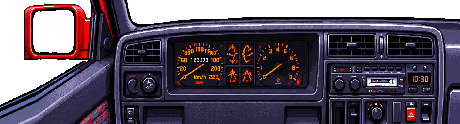
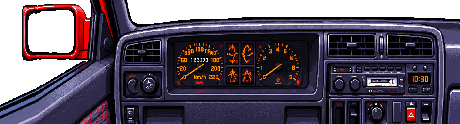
Monza S/R vira Ímola S/R; retrovisor esquerdo refeito: lado de lá fino, cantos arredondados, contorno contínuo e sem restos da paisagem (v0.27.1)
Claude-Session: https://claude.ai/code/session_01MLD9VR7gkmY4w6a9beZcp6

Changed region(s): [[0.0304, 0.0242, 0.0913, 0.5081]]

diff --git a/src/carsbr.ts b/src/carsbr.ts
@@ -49,8 +49,8 @@ export const BR_CARS: CarSpec[] = [
   { ...fwd(spec({ id: 'br-kadett', name: 'Cadete GSi', basedOn: 'Chevrolet Kadett GSi 2.0 (1989)', color: '#f0c000', price: 17000, position: 'dianteira', engine: '4 cil. 8v', cc: 1998, cv: 121, kmh: 190, z100: 9.6, kg: 1030, curve: 'torque', lat: 0.85, brake: 0.9, handling: 0.97 })), dash: 'br-kadett', rear: { h: 0.75, roof: 0.62, lights: 'rect', wing: 1, glow: { dots: [[0.11, 0.4], [0.89, 0.4]] } } },
   fwd(spec({ id: 'br-xr3', name: 'Escoltar XR3', basedOn: 'Ford Escort XR3 2.0i (1993)', color: '#1a3aa8', price: 16500, position: 'dianteira', engine: '4 cil. 8v', cc: 1984, cv: 115, kmh: 185, z100: 9.8, kg: 1050, curve: 'torque', lat: 0.85, brake: 0.9, handling: 0.97 })),
   { ...fwd(spec({ id: 'br-corsa', name: 'Corsário GSi', basedOn: 'Chevrolet Corsa GSi 1.6 16v (1995)', color: '#ececec', price: 14000, position: 'dianteira', engine: '4 cil. 16v', cc: 1598, cv: 108, kmh: 190, z100: 9.5, kg: 950, curve: 'vtec', lat: 0.85, brake: 0.92, handling: 1.03 })), dash: 'br-corsa', rear: { h: 0.88, roof: 0.6, lights: 'rect', wing: 1, glow: { dots: [[0.105, 0.47], [0.895, 0.47]] } } },
-  // Monção S/R (Monza S/R hatch 1987, 2.0 a álcool): arte completa do Victor (monza_sprites.py, monza_cockpit.py, monza_gauges.py)
-  { ...fwd(spec({ id: 'br-monza', name: 'Monção S/R', basedOn: 'Chevrolet Monza S/R 2.0 (1987)', color: '#c8141a', price: 13000, position: 'dianteira', engine: '4 cil. 8v', cc: 1998, cv: 110, kmh: 180, z100: 10.5, kg: 1060, curve: 'torque', lat: 0.8, brake: 0.86, handling: 0.9 })), dash: 'br-monza', rear: { h: 0.7, roof: 0.6, lights: 'rect', wing: 1, glow: { dots: [[0.076, 0.624], [0.226, 0.624], [0.774, 0.624], [0.924, 0.624]] } } },
+  // Ímola S/R (Monza S/R hatch 1987, 2.0 a álcool): arte completa do Victor (monza_sprites.py, monza_cockpit.py, monza_gauges.py)
+  { ...fwd(spec({ id: 'br-monza', name: 'Ímola S/R', basedOn: 'Chevrolet Monza S/R 2.0 (1987)', color: '#c8141a', price: 13000, position: 'dianteira', engine: '4 cil. 8v', cc: 1998, cv: 110, kmh: 180, z100: 10.5, kg: 1060, curve: 'torque', lat: 0.8, brake: 0.86, handling: 0.9 })), dash: 'br-monza', rear: { h: 0.7, roof: 0.6, lights: 'rect', wing: 1, glow: { dots: [[0.076, 0.624], [0.226, 0.624], [0.774, 0.624], [0.924, 0.624]] } } },
   spec({ id: 'br-opala', name: 'Opalino SS', basedOn: 'Chevrolet Opala SS 4.1 (1976)', color: '#1c1c20', price: 15000, position: 'dianteira', engine: '6 cil. 12v', cc: 4093, cv: 148, kmh: 180, z100: 10.5, kg: 1180, gears: G4, curve: 'torque', lat: 0.74, brake: 0.8, handling: 0.82 }),
   { ...spec({ id: 'br-pumagtb', name: 'Onça GTB', basedOn: 'Puma GTB S2 4.1 (1979)', color: '#c8ccd0', price: 19000, position: 'dianteira', engine: '6 cil. 12v', cc: 4093, cv: 140, kmh: 180, z100: 10.0, kg: 1150, gears: G4, curve: 'torque', lat: 0.78, brake: 0.82, handling: 0.86 }), dash: 'br-pumagtb', rear: { h: 0.62, roof: 0.62, lights: 'rect', wing: 0, glow: { dots: [[0.18, 0.6], [0.3, 0.6], [0.7, 0.6], [0.82, 0.6]] } } },
   { ...fwd(spec({ id: 'br-passat', name: 'Passeio GTS', basedOn: 'VW Passat GTS Pointer 1.8 (1985)', color: '#c8c8cc', price: 11000, position: 'dianteira', engine: '4 cil. 8v', cc: 1781, cv: 99, kmh: 175, z100: 10.8, kg: 940, gears: G4, curve: 'torque', lat: 0.82, brake: 0.86, handling: 0.95 })), dash: 'br-passat', rear: { h: 0.717, roof: 0.62, lights: 'rect', wing: 1, glow: { dots: [[0.07, 0.52], [0.2, 0.52], [0.8, 0.52], [0.93, 0.52]] } } },

diff --git a/src/photos.ts b/src/photos.ts
@@ -67,12 +67,12 @@ export const GOL_PHOTOS: Photo[] = [
   { src: ph('gol-giro'), kicker: 'TÉCNICA', kc: '#1a1614', title: 'ATÉ O CORTE', sub: 'Conta-giros VDO e motor AP', inside: ['Leia o painel do GTI', 'Faixa vermelha em 6.250', 'Relógio digital no meio'], box: [150, 100, 410, 315] },
   { src: ph('gol-motor'), kicker: 'OFICINA', kc: '#1a6a2a', title: 'INJEÇÃO ELETRÔNICA', sub: 'O primeiro nacional injetado', inside: ['Revisão da injeção', 'Velas e cabos', 'Filtro de ar esportivo'], box: [60, 40, 540, 315] },
 ].filter((p) => !!p.src);
-// Monção S/R (Monza S/R 1987): tools/ref/monza_photos.py
+// Ímola S/R (Monza S/R 1987): tools/ref/monza_photos.py
 export const MZ_PHOTOS: Photo[] = [
-  { src: ph('mz-aviao'), kicker: 'TESTE', kc: '#d01f26', title: 'MONÇÃO S/R', sub: 'O hatch esportivo decola na pista', inside: ['2.0 a álcool de 110 cv', 'Contra o treinador da base', 'Câmbio curto de 5 marchas'], box: [104, 100, 506, 302] },
+  { src: ph('mz-aviao'), kicker: 'TESTE', kc: '#d01f26', title: 'ÍMOLA S/R', sub: 'O hatch esportivo decola na pista', inside: ['2.0 a álcool de 110 cv', 'Contra o treinador da base', 'Câmbio curto de 5 marchas'], box: [104, 100, 506, 302] },
   { src: ph('mz-preto'), kicker: 'ENSAIO', kc: '#1a1614', title: 'HATCH DE RESPEITO', sub: 'Aerofólio, filetes vermelhos e escape esportivo', inside: ['Rodas de liga de série', 'Bancos de tecido exclusivo', 'Porta-malas com tampão'], box: [65, 85, 517, 300] },
-  { src: ph('mz-casal'), kicker: 'COMPARATIVO', kc: '#1e4fb8', title: 'DOIS MONÇÕES', sub: 'Prata ou cobre: qual levar para casa?', inside: ['Consumo na estrada', 'Econômetro no painel', 'O preço de cada versão'], box: [189, 105, 553, 286] },
-  { src: ph('mz-garagem'), kicker: 'FAMÍLIA', kc: '#1a6a2a', title: 'SEDÃ OU HATCH?', sub: 'A linha Monção inteira na garagem', inside: ['Sedã de quatro portas', 'Hatch para quem dirige', 'Câmbio automático: vale?'], box: [15, 57, 533, 290] },
+  { src: ph('mz-casal'), kicker: 'COMPARATIVO', kc: '#1e4fb8', title: 'DOIS ÍMOLAS', sub: 'Prata ou cobre: qual levar para casa?', inside: ['Consumo na estrada', 'Econômetro no painel', 'O preço de cada versão'], box: [189, 105, 553, 286] },
+  { src: ph('mz-garagem'), kicker: 'FAMÍLIA', kc: '#1a6a2a', title: 'SEDÃ OU HATCH?', sub: 'A linha Ímola inteira na garagem', inside: ['Sedã de quatro portas', 'Hatch para quem dirige', 'Câmbio automático: vale?'], box: [15, 57, 533, 290] },
   { src: ph('mz-motor'), kicker: 'TÉCNICA', kc: '#1e4fb8', title: 'ÁLCOOL 2.0', sub: 'Comando no cabeçote e torque em baixa', inside: ['Partida a frio sem susto', 'Regulagem do carburador', 'Velas e ponto certos'], box: [40, 20, 520, 300] },
 ].filter((p) => !!p.src);
 export const preloadPhotos = () => [...LP5_PHOTOS, ...NX_PHOTOS, ...VP_PHOTOS, ...TR_PHOTOS, ...F4_PHOTOS, ...DIA_PHOTOS, ...GOL_PHOTOS, ...MZ_PHOTOS].forEach((p) => img(p.src));

diff --git a/src/cockpit.ts b/src/cockpit.ts
@@ -267,7 +267,7 @@ COCKPIT_ART['br-golgti'] = {
   },
 };
 
-// Monção S/R (Monza S/R hatch 1987): interior do Victor (tools/ref/monza_cockpit.py: painel da arte sem
+// Ímola S/R (Monza S/R hatch 1987): interior do Victor (tools/ref/monza_cockpit.py: painel da arte sem
 // volante, volante da arte com volante, retrovisor completado, porta construída até a borda) e o quadro
 // da foto do carro real (tools/ref/monza_gauges.py): grafite com números laranja finos, velocímetro
 // 20-220 com hodômetro e parcial, conta-giros 10-70 com faixa vermelha vazada e, no meio, quatro

diff --git a/src/screens.ts b/src/screens.ts
@@ -145,7 +145,7 @@ function newsLines(slot: number): string[] {
     'Onça GTE: fibra, boxer a ar e charme',
     'Cadete GSi e o painel que é só números',
     'Gaúcho GTI encara a serra de faróis acesos',
-    'Monção S/R: o econômetro ensina a poupar álcool',
+    'Ímola S/R: o econômetro ensina a poupar álcool',
     'Vortex ZR: quadro digital dos anos 80',
     'Onça GTB: seis cilindros e muito torque',
   ];

diff --git a/tools/ref/monza_cockpit.py b/tools/ref/monza_cockpit.py
@@ -1,4 +1,4 @@
-"""Cabine do Monção S/R (Monza S/R 1987) a partir das artes do Victor (mesmo enquadramento nas duas):
+"""Cabine do Ímola S/R (Monza S/R 1987) a partir das artes do Victor (mesmo enquadramento nas duas):
 - painel da arte sem volante; o volante vem da arte com volante (aro pela geometria, miolo e os quatro
   raios por contorno)
 - vidros por geometria medida na arte: para-brisa (da borda de dentro da coluna até a linha do alto do
@@ -40,7 +40,7 @@ P_OUT = [(0, 118), (30, 130), (60, 143), (90, 154), (120, 165), (150, 178), (180
 P_IN = [(0, 309), (30, 303), (60, 306), (90, 313), (120, 318), (150, 325), (180, 330), (210, 337), (240, 344), (262, 352)]
 LP, TP = 150, 60                # folga construída à esquerda e no alto (px da arte)
 SILL = 0.40                     # quanto as linhas da porta descem a cada px indo para a borda esquerda
-M_A, M_R, M_X0 = 112, 170, -45  # retrovisor: faixa refletida (do começo da curva dos cantos até a borda) e a borda nova
+M_A, M_R, M_X0 = 112, 153, -50  # retrovisor: faixa refletida (da curva dos cantos até o filete da moldura, sem a lateral grossa da carcaça) e a borda nova
 
 
 def interp(tab, y):
@@ -118,6 +118,10 @@ def opaque(nw):
     glass = lab == lab[300, 70]
     glass = cv2.morphologyEx(glass.astype(np.uint8), cv2.MORPH_CLOSE, np.ones((7, 7), np.uint8)) > 0
     al &= ~(win & ~body)
+    al &= ~(box & (yy < 214) & (nw[..., 0] > 180) & (nw[..., 1] > 80) & (nw[..., 2] < 100))  # tufo alaranjado da paisagem em cima da moldura
+    for _ in range(2):  # pontinhos soltos da paisagem grudados no alto da moldura
+        cnt = cv2.filter2D(al.astype(np.uint8), -1, np.ones((3, 3), np.float32), borderType=cv2.BORDER_REPLICATE)
+        al &= ~((cnt < 5) & box & (yy < 222))
     al &= ~glass
     return al, body, glass
 
@@ -137,28 +141,50 @@ def extend(nw, al, body):
         ybc = np.clip(yb, 0, H - 1)
         E[TP:, LP - X] = base[ybc].astype(np.uint8)
         A[TP:, LP - X] = ok & edge_ok[ybc]
-    # retrovisor: moldura direita refletida (cor e vidro)
+    # retrovisor: o lado de lá (esquerdo) é refeito fino, como se vê de dentro: a curva dos cantos e o
+    # filete da moldura direita refletidos (sem a lateral grossa da carcaça, que só aparece do lado
+    # de cá); entre eles e a borda da arte, a moldura de cima, o vidro e a de baixo continuam. O
+    # retrovisor está em perspectiva (o alto desce para a esquerda): cada coluna nova é encolhida na
+    # vertical, presa embaixo, seguindo essa inclinação
     rows = slice(TP + 198, TP + 396)
-    # o retrovisor está em perspectiva (mais alto à direita): a faixa refletida é encolhida na
-    # vertical, presa embaixo, para o alto dela casar com o alto da moldura na borda da arte
+    bot = 392
     first = lambda x: 198 + int(np.argmax(al[198:260, x]))
-    t_src, t_dst, bot = first(M_A), first(M_X0 + (M_R - M_A) + 1), 392
+    slope = (first(4) - first(M_A)) / (M_A - 4.0)   # quanto o alto desce por px indo para a esquerda
     yd = np.arange(198, 396)
-    ysrc = np.round(bot - (bot - yd) * (bot - t_src) / (bot - t_dst)).astype(int)
-    okr = ysrc >= 198
-    ysrc = np.clip(ysrc, 198, 395)
+
+    def put(tx, sx):
+        t_src, t_dst = first(sx), first(4) + slope * (4 - tx)
+        ysrc = np.round(bot - (bot - yd) * (bot - t_src) / (bot - t_dst)).astype(int)
+        ok = ysrc >= 198
+        ysrc = np.clip(ysrc, 198, 395)
+        E[rows, LP + tx] = nw[ysrc, sx]
+        A[rows, LP + tx] = al[ysrc, sx] & ok
+
+    w = M_R - M_A
     for x in range(M_A, M_R + 1):
-        tx = LP + M_X0 + (M_R - x)
-        E[rows, tx] = nw[ysrc, x]
-        A[rows, tx] = al[ysrc, x] & okr
-    edge = A[rows, LP + M_X0]
-    for k in (1, 2, 3):
-        col = E[rows, LP + M_X0 - k]
-        col[edge] = (14, 12, 14)
-        E[rows, LP + M_X0 - k] = col
-        ca = A[rows, LP + M_X0 - k]
-        ca[edge] = True
-        A[rows, LP + M_X0 - k] = ca
+        put(M_X0 + (M_R - x), x)
+    n = 4 - (M_X0 + w + 1)
+    for i, tx in enumerate(range(M_X0 + w + 1, 4)):  # a moldura engrossa aos poucos até a curva do canto
+        put(tx, int(round(M_A - 1 - (M_A - 5) * i / max(1, n - 1))))
+    # cantos de fora arredondados e contorno escuro em volta do lado novo
+    x0, x1 = LP + M_X0, LP + 4
+    reg = A[TP + 190:TP + 400, x0 - 6:x1].copy()
+    pad = np.pad(reg, 1, constant_values=False)
+    nlab, lab = cv2.connectedComponents((~pad).astype(np.uint8), connectivity=4)
+    solid = (lab != lab[0, 0])[1:-1, 1:-1] | reg  # com o vidro tampado
+    ys_, xs_ = np.nonzero(solid[:, 6:8])
+    ytop, ybot, R = ys_.min(), ys_.max(), 11
+    yy, xx = np.mgrid[0:solid.shape[0], 0:solid.shape[1]]
+    for cy in (ytop + R, ybot - R):
+        out_c = (xx < 6 + R) & ((yy < cy) if cy == ytop + R else (yy > cy)) & (np.hypot(xx - (6 + R), yy - cy) > R)
+        solid &= ~out_c
+        reg &= ~out_c
+    line = (cv2.dilate(solid.astype(np.uint8), np.ones((7, 7), np.uint8)) > 0) & ~solid
+    line[:, -3:] = False
+    A[TP + 190:TP + 400, x0 - 6:x1] = reg | line
+    blk = E[TP + 190:TP + 400, x0 - 6:x1]
+    blk[line] = (14, 12, 14)
+    E[TP + 190:TP + 400, x0 - 6:x1] = blk
     # alto: a coluna continua subindo (0,3 px para a esquerda por px)
     for Y in range(1, TP + 1):
         sh = int(round(0.3 * Y))

diff --git a/tools/ref/monza_sprites.py b/tools/ref/monza_sprites.py
@@ -1,4 +1,4 @@
-"""Sprites do Monção S/R (Monza S/R hatch 1987, pixel art do Victor). A arte vem com cenário: o carro
+"""Sprites do Ímola S/R (Monza S/R hatch 1987, pixel art do Victor). A arte vem com cenário: o carro
 é recortado por inundação do fundo a partir das bordas (o contorno preto do carro segura), fica só a
 maior mancha e a sombra azulada do chão sai. A lateral vem com a frente para a direita: é espelhada.
 Marcas reais somem: gravata na grade e nas rodas, "CHEVROLET" na tampa e a placa "MONZA" da frente;

diff --git a/tools/ref/monza_gauges.py b/tools/ref/monza_gauges.py
@@ -1,4 +1,4 @@
-"""Quadro do Monção S/R (Monza S/R 1987), copiando a foto do quadro real que o Victor mandou: fundo
+"""Quadro do Ímola S/R (Monza S/R 1987), copiando a foto do quadro real que o Victor mandou: fundo
 grafite, números e marcações laranja em grotesca fina. Velocímetro 20-220 km/h (número a cada 20,
 marcação a cada 10, 120 no alto) com hodômetro em cima do eixo, parcial embaixo e "km/h"; conta-giros
 10-70 (x100 min-1) com a faixa vermelha vazada no fim; no meio, quatro mostradores de arco em pé com

diff --git a/tools/ref/monza_photos.py b/tools/ref/monza_photos.py
@@ -1,4 +1,4 @@
-"""Fotos da revista do Monção S/R (Monza S/R, pixel art do Victor): as gravatas das grades viram o logo
+"""Fotos da revista do Ímola S/R (Monza S/R, pixel art do Victor): as gravatas das grades viram o logo
 da Vanguarda (src/assets/brands.json), os letreiros "CHEVROLET"/"MONZA" somem (cor da lataria em
 volta), a placa "MONZA" vira "S/R 87" e a marca da bateria some. Reduz para 560 x 315.
 Uso: python3 tools/ref/monza_photos.py <pasta com ph-*.png> <src/assets/photos>
